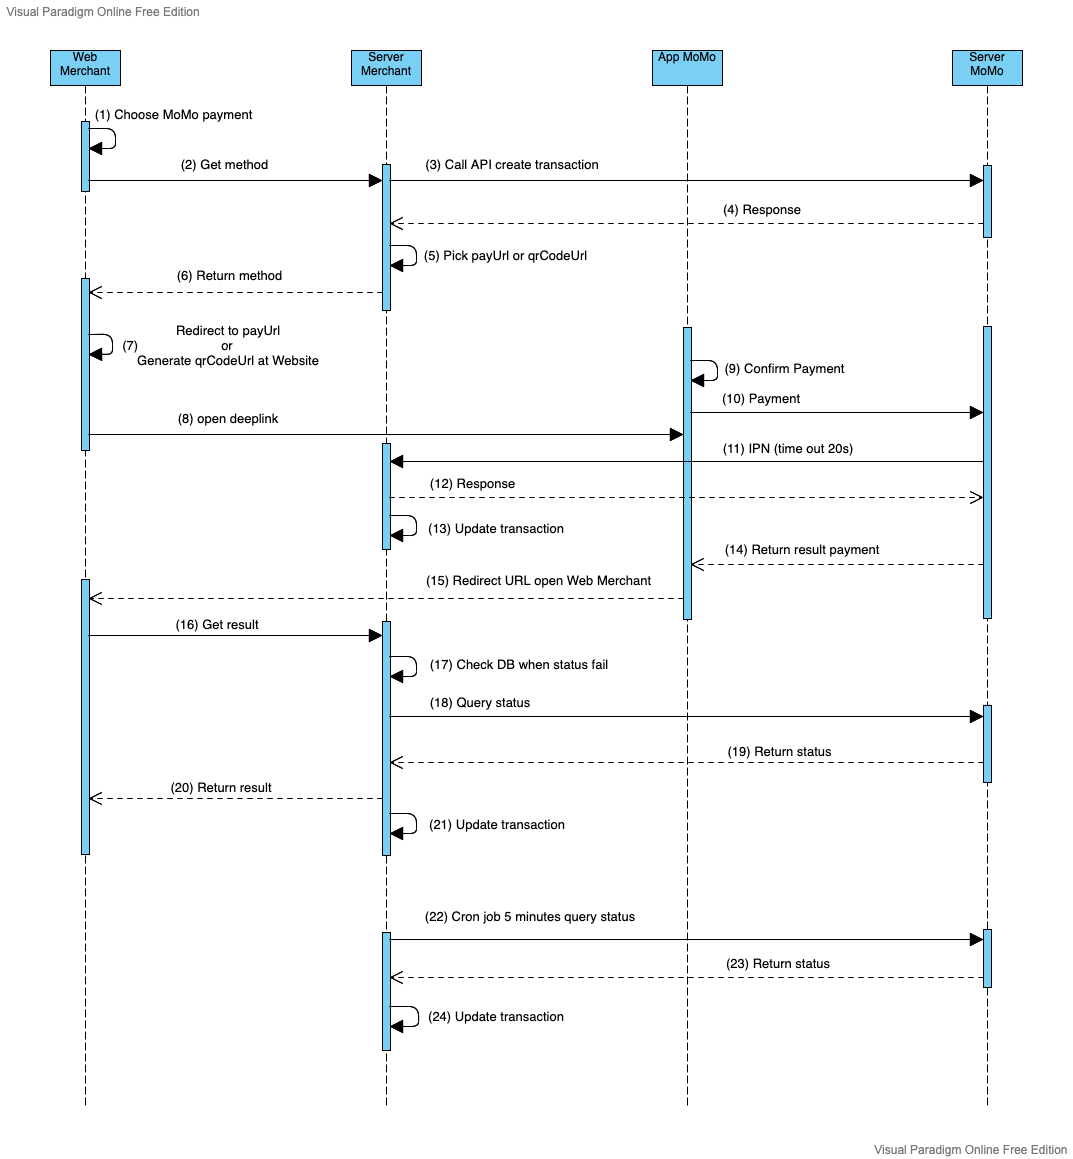
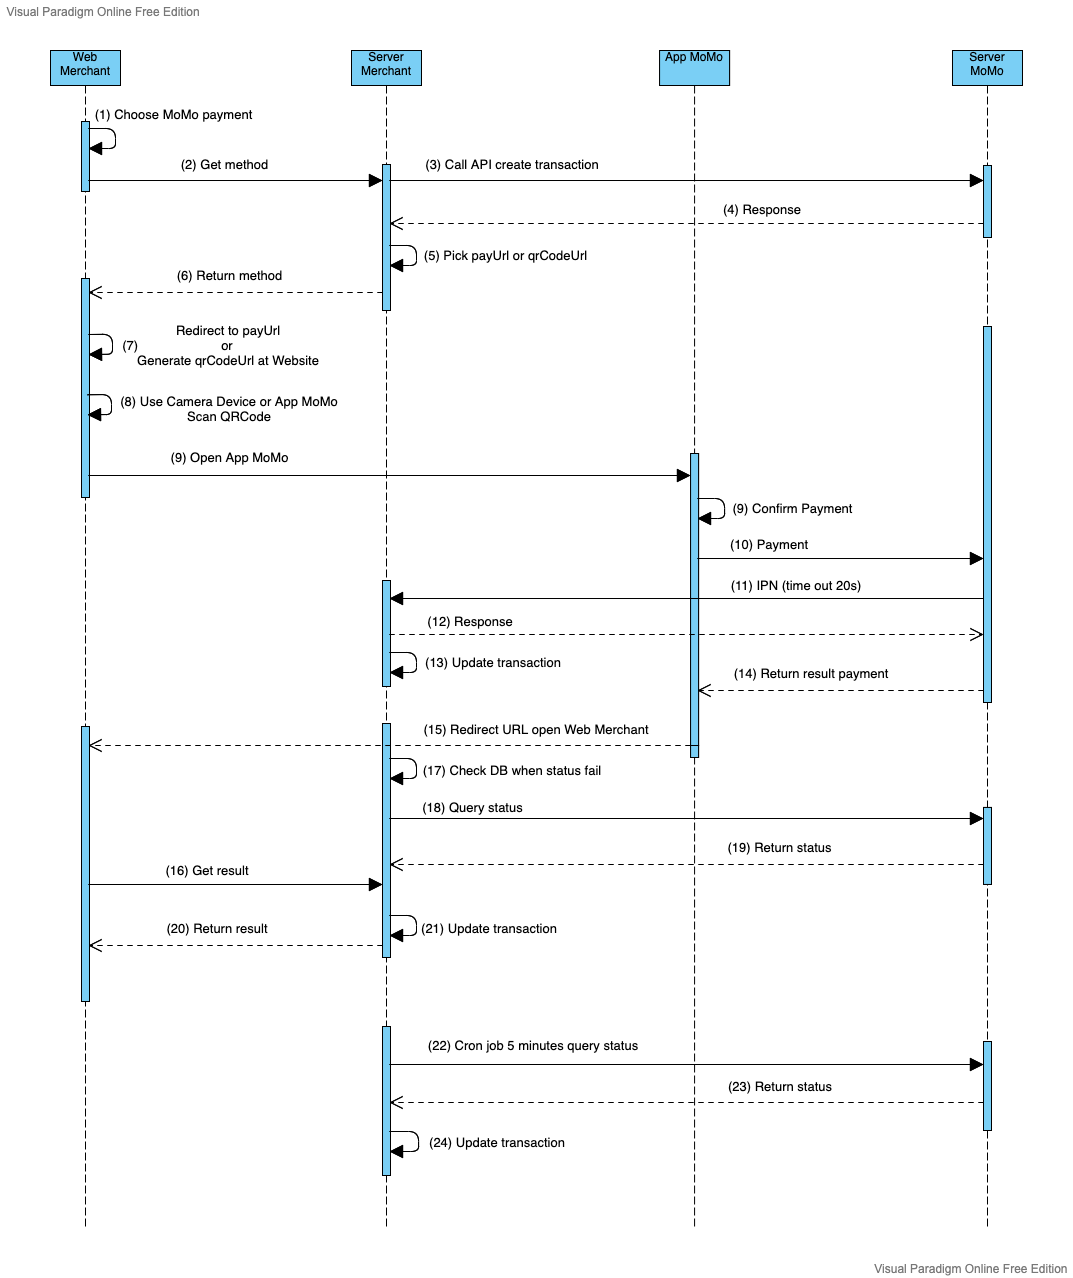
update sequence

diff --git a/README.md b/README.md
@@ -78,7 +78,7 @@ Thanh toán App-In-App, Website Mobile
 ## Mô hình thanh toán
 Tham khảo hướng dẫn sau để áp dụng MoMo vào trang mua hàng của bạn
 
-* Bước 1: Khách hàng kiểm tra đơn hàng và chọn MoMo là phương thức thanh toán
+* Bước 1: Khách hàng kiểm tra đơn hàng và chọn MoMo để thanh toán
 * Bước 2: Server của bạn tạo session thanh toán và gửi yêu cầu thanh toán qua MoMo
 * Bước 3: Chuyển trang mua hàng sang trang thanh toán của MoMo.
 * Bước 4: Khách hàng sử dụng ứng dụng MoMo để quét mã QR hoặc đăng nhập app MoMo để thanh toán
